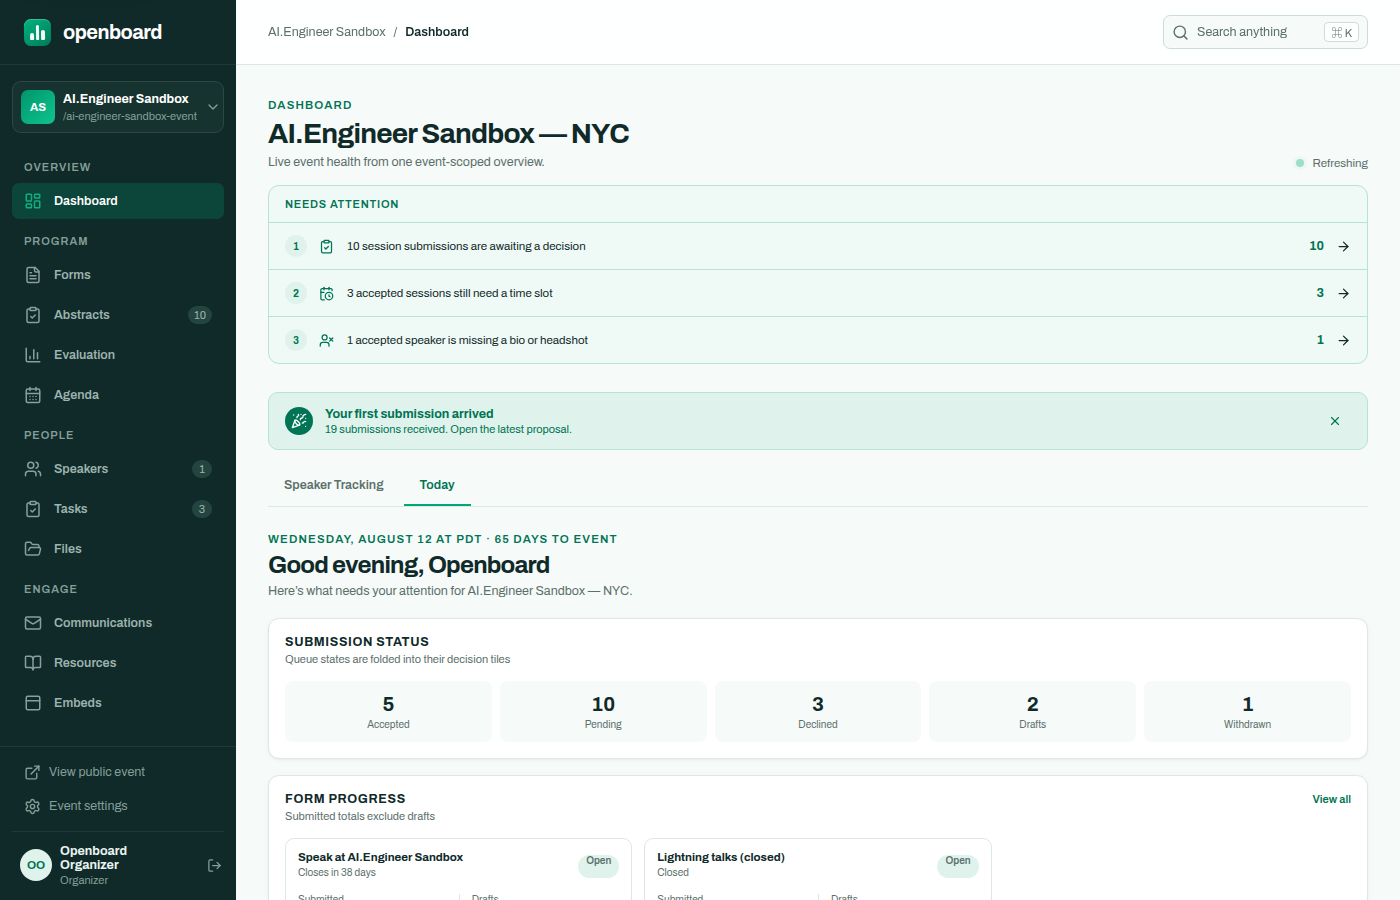
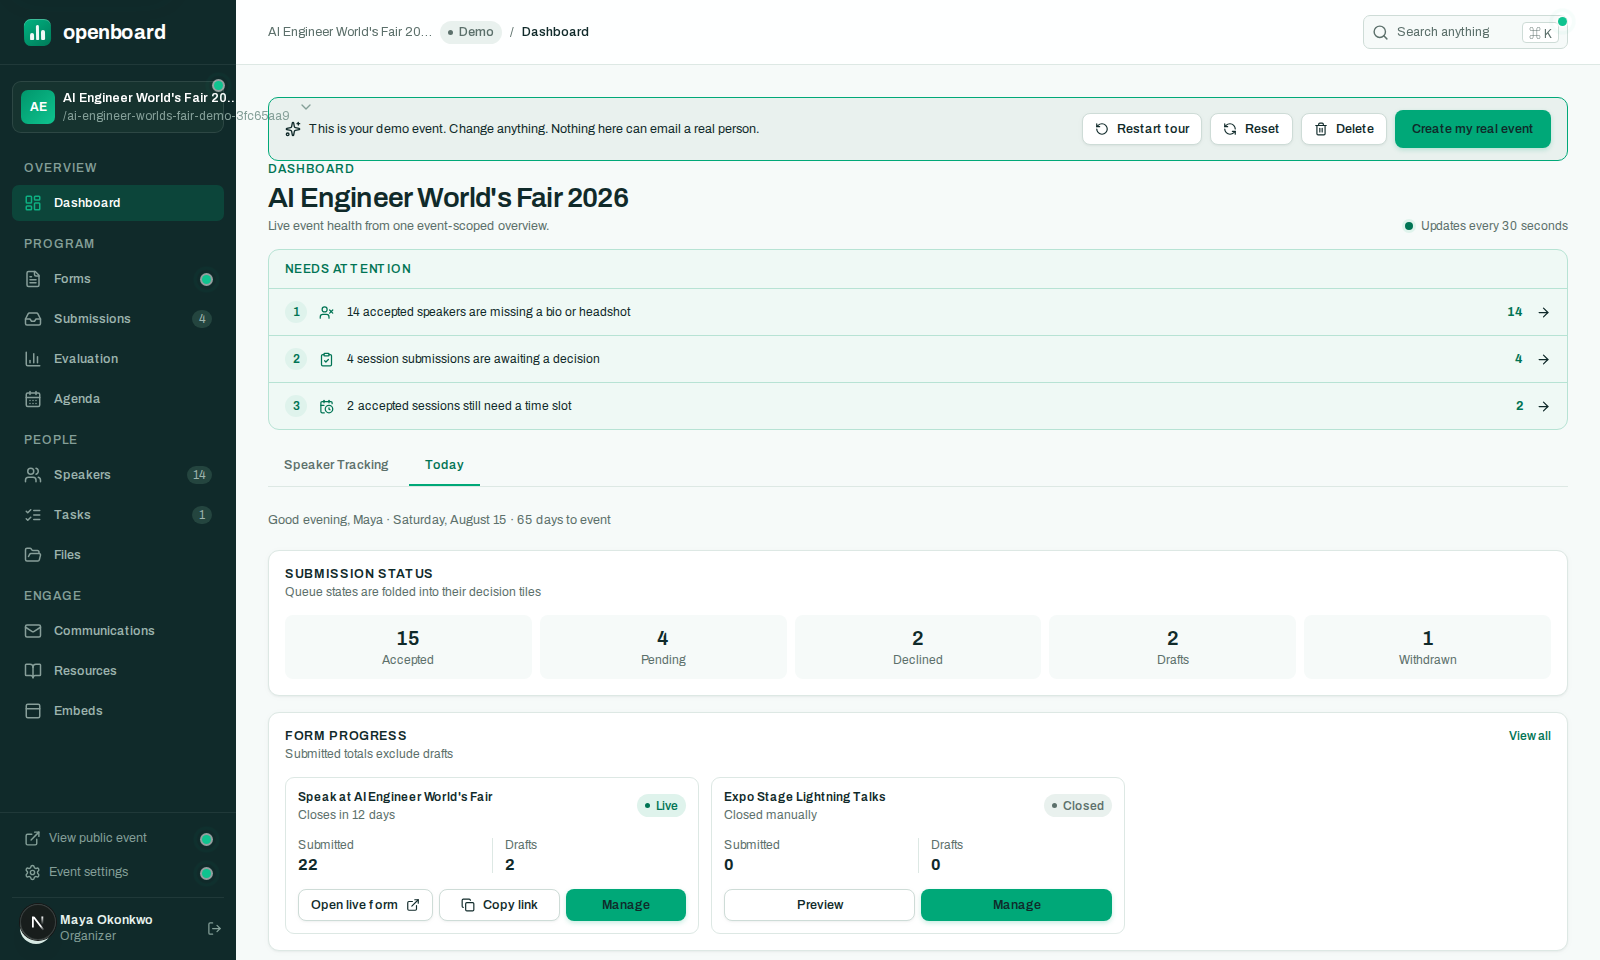
Rewrite the README around the first ten minutes, and reshoot every screenshot
The README described a product that had moved on. First Fair — the demo event
and its guided tour, the one thing built specifically so a new organizer can
understand Openboard without reading anything — was not mentioned at all, and
the left rail's "Submissions" was still called "Abstracts" throughout.

The page now opens on the path a new organizer actually walks: create your
workspace, pick a door, watch a conference get built, take the tour, then set
up the real one — with the four properties of the demo event (labelled, cannot
email anybody, free, disposable) stated where somebody deciding whether to
click is looking. The feature tour follows as "the product, screen by screen".

Every screenshot is new, and shot against the demo conference rather than the
seeded sandbox. The sandbox carries deliberate hostile probes — a 255-character
run-on title, an RTL override, an XSS payload — which is right for the e2e
suite and wrong for the first picture a stranger sees; the old submissions
table screenshot was mostly one title wrapping down the page. Ten screens that
had no picture at all now have one: sign-up, the fork, provisioning, the tour's
coach card, guided setup, the conflicts tab, the delivery log, Ready to
announce, and two public pages.

Three claims were stronger than the code and are now accurate: the eight field
types are the eight the builder actually offers (COMMITTED_FIELD_TYPES, not the
thirteen in FIELD_TYPES); auto-place names what it screens, since
[…]

diff --git a/README.md b/README.md
@@ -4,15 +4,92 @@ Openboard is an open-source platform for running the speaker side of a conferenc
 call for speakers, review the proposals, keep your speakers on track, build a conflict-free
 schedule, and publish it — all from one place, with the routine email handled for you.
 
-This README is a tour for **event organizers**. If you want to hack on Openboard or host it
+This README is written for **event organizers**. If you want to hack on Openboard or host it
 yourself, jump to [For developers and self-hosters](#for-developers-and-self-hosters).
 
-- **Try it now:** <https://sb-web-preview.yi-ding.workers.dev> — a live preview seeded with a
-  sample conference (*AI.Engineer Sandbox — NYC*).
-- **Guided walkthrough:** [`docs/demo-script.md`](docs/demo-script.md) steps through everything
-  below against the seeded event.
+**The fastest way to understand Openboard is to let it build you a conference and walk you
+through running it.** It takes about ten minutes, costs nothing, and cannot email a real
+person. Start at <https://openboard.events> — or read
+[Your first ten minutes](#your-first-ten-minutes) below, which is the same path with pictures.
 
-## Your event at a glance
+---
+
+## Your first ten minutes
+
+### 1. Create your workspace
+
+Sign up with your name, your organization's name, an email address, and a password. Confirm the
+address from the mail we send, and you land in your new organization.
+
+![The Openboard sign-up screen: name, organization, email, password](docs/screenshots/signup.png)
+
+An **organization** is your team's home: it holds every event you run, your co-organizers and
+reviewers, and the speaker relationships you build up over the years.
+
+### 2. Pick a door
+
+A brand-new organization is offered a choice before anything else. Neither door is a trap —
+*Skip both* is right there, and the offer stays on your organization home until you take it.
+
+![Two doors: explore a finished conference, or set up my real event](docs/screenshots/onboarding-fork.png)
+
+### 3. Watch a conference get built
+
+Choose *Explore a finished conference* and Openboard writes you one, live, in ten narrated
+phases: a venue and eight tracks, eighteen speakers who do not exist, a call for speakers,
+twenty-four proposals, a review queue, a schedule with two scheduling conflicts planted in it
+on purpose, speaker tasks, resources, and a full outbox.
+
+![The demo conference being provisioned, phase by phase](docs/screenshots/demo-building.png)
+
+It is a **real event**, not a fixture: it is built through the same code your own event will
+use, so you can rename it, delete things, publish it, and generally break it without
+consequence.
+
+### 4. Take the tour
+
+Then a guided tour — *First Fair* — walks you through actually running it, chapter by chapter:
+the dashboard, building a form, triaging proposals, scoring them, deciding and notifying,
+visiting a speaker's portal, fixing a scheduling conflict, publishing to the public site, and
+the email machinery underneath.
+
+![The guided tour's coach card, pointing at the command palette](docs/screenshots/guided-tour.png)
+
+Each step is verified against what is actually in the database rather than against clicks, so
+finishing one in another tab, on your phone, or by a route nobody scripted all count.
+<kbd>Esc</kbd> pauses with nothing lost; every step can be skipped; the tour can be resumed or
+restarted from the ribbon at the top of the demo event.
+
+**Four things to know about the demo event:**
+
+| | |
+|---|---|
+| **It is labelled.** | A `Demo` badge in the topbar and on the event switcher, and a *"Sample event · built with Openboard"* ribbon on its public pages, which are also `noindex`. |
+| **It cannot email anybody.** | Every fabricated address ends in `.demo.invalid` (a domain that cannot resolve, anywhere), *and* the mail dispatcher refuses demo events outright. Mail the tour queues is rendered, logged — and skipped. |
+| **It is free.** | It never counts toward your organization's event allowance. |
+| **It is disposable.** | *Reset* rebuilds it from scratch; *Delete* (owner only, typed confirmation) removes it and everything under it. Neither can touch a real event. |
+
+### 5. Set up your real event
+
+When you are ready, **Create my real event** opens a four-step guided setup: event details,
+tracks, your first submission form, and the link to share. It takes a few minutes and leaves you
+with a call for speakers you can publish.
+
+![The four-step guided setup for a real event](docs/screenshots/setup-wizard.png)
+
+If you took the tour, tick **Start from my demo's setup** and your real event inherits the
+demo's vocabulary and one form's structure — tracks, rooms, formats, tags, questions,
+conditional rules — and nothing else. No fake people, no fake proposals, no fake sessions.
+
+Already run events here? You are never interrupted by the fork; the demo is available whenever
+you want it, from your organization home or the command palette (<kbd>⌘K</kbd> →
+*Explore a demo event*).
+
+---
+
+## The product, screen by screen
+
+Every screenshot below is the demo conference — the one Openboard will build for you.
 
 Sign in, pick your event, and the dashboard tells you where your attention is needed *today*:
 proposals awaiting a decision, accepted sessions without a time slot, speakers missing a bio or
@@ -20,39 +97,40 @@ headshot. Each line links straight to the screen where you fix it.
 
 ![The event dashboard, with a needs-attention queue and submission status counts](docs/screenshots/dashboard.png)
 
-The left rail is the whole product: **Forms → Abstracts → Evaluation → Agenda** for the program,
-**Speakers → Tasks → Files** for the people, and **Communications → Resources → Embeds** to reach
-your audience.
+The left rail is the whole product: **Forms → Submissions → Evaluation → Agenda** for the
+program, **Speakers → Tasks → Files** for the people, and **Communications → Resources →
+Embeds** to reach your audience.
 
-## 1. Open your call for speakers
+### 1. Open your call for speakers
 
 Create a submission form under **Forms**. The builder walks you through six steps — setup,
-welcome page, the abstract itself, participant details, settings, and notifications — with a live
-preview of what speakers will see as you type. Deadlines and per-speaker submission limits are
-enforced for you.
+welcome page, the abstract, participant details, settings, and notifications — with a live
+preview of what speakers will see as you type. Deadlines and per-speaker submission limits
+are enforced for you.
 
 ![The six-step form builder with live preview](docs/screenshots/form-builder.png)
 
-Questions come in eight field types (short/long text, rich text, dropdowns, multi-selects, and
-more). Two features do a lot of quiet work here:
+Questions come in eight field types (short and long text, rich text, dropdowns, multi-selects,
+email, URL, and file upload). Two features do a lot of quiet work here:
 
 - **Conditional visibility** — a question can appear only when it's relevant ("Workshop
   duration" only when the format is *Workshop*).
-- **Category routing** — rules like *"When Format is Workshop → set Track AI Agents, add tag
-  Tooling"* file each submission into the right bucket the moment it arrives.
+- **Category routing** — rules like *"When Track is Security → add tag Enterprise"* file each
+  submission into the right bucket the moment it arrives.
 
-<img src="docs/screenshots/form-questions-routing.png" alt="The question list with a conditional field, and a category routing rule" width="560">
+![The question list with a conditional field, and a category routing rule](docs/screenshots/form-questions-routing.png)
 
-Every save pins an immutable snapshot of the form, so a proposal is always reviewed against the
-exact form the speaker filled in — even if you tweak the wording later. Once submissions exist,
-the structure locks (labels, guidance, and dates stay editable).
+Every publish pins an immutable snapshot of the form, so a proposal is always reviewed against
+the exact form the speaker filled in — even if you tweak the wording later. Once real
+submissions exist, the structure locks (labels, guidance, and dates stay editable, and
+*Duplicate as draft* gives you a fresh copy to restructure).
 
-When the form is ready, publish it and share the public link — each row in the Forms list has a
-copy-link button.
+When the form is ready, publish it and share the public link — every live form in the Forms list
+has copy-link and open-in-a-new-tab actions.
 
 ![The forms list with submission counts, status, and copy-link actions](docs/screenshots/forms-list.png)
 
-### What speakers see
+#### What speakers see
 
 Speakers get a clean four-step wizard: verify email with a one-time code, fill in the proposal,
 add speaker details, review — then submit. (Three steps if you don't collect speaker details.)
@@ -60,61 +138,58 @@ Drafts save to the server as they go, so nothing is lost to a closed tab, and sp
 back and **edit their proposal until the form closes or you decide** — no "please re-open my
 submission" email threads.
 
+![The public submission wizard, with its close date and per-speaker limit](docs/screenshots/cfp-wizard.png)
+
 A talk is often not one person's. If you turn the roles on, the speaker step takes co-speakers,
 moderators and panelists alongside the submitter, each answering the participant questions in
 their own right; everyone on the proposal can see it in their portal, while editing stays with
 the person who submitted it.
 
-<img src="docs/screenshots/cfp-wizard.png" alt="The public submission wizard, showing the conditional Workshop duration question" width="640">
+### 2. Review proposals and decide
 
-That *Workshop duration* question is the conditional one from the builder above — it appeared
-because this speaker picked *Workshop*.
-
-## 2. Review proposals and decide
-
-**Abstracts** is every proposal for the event with its status, track, and rating in one table.
-Tabs slice it into the queues you actually work: pending, accept queue, decline queue, decided.
+**Submissions** is every proposal for the event with its status, track, and rating in one table.
+Tabs slice it into the queues you actually work: needs decision, ready to notify, decided, all.
 Click any row to work the proposal in a slide-over panel — no page loads, and keyboard next/prev
 lets you clear a queue without touching the mouse. Bulk-select rows to move a batch at once, or
 export the lot to CSV.
 
-![The abstracts table with status queues, tracks, ratings, and a queued-decisions banner](docs/screenshots/abstracts-list.png)
+![The submissions table with decision queues, tracks, ratings, and a queued-decisions banner](docs/screenshots/submissions-list.png)
 
 The panel shows the speaker's answers exactly as submitted, rendered against the form version
 they saw:
 
-<img src="docs/screenshots/submission-drawer.png" alt="The submission panel with answers pinned to the form snapshot" width="480">
+![The submission panel with answers pinned to the form snapshot](docs/screenshots/submission-drawer.png)
 
-### Structured scoring, if you want it
+#### Structured scoring, if you want it
 
-For a lightweight event, decide straight from the Abstracts queues. For a program committee,
+For a lightweight event, decide straight from the Submissions queues. For a program committee,
 **Evaluation** runs scoring rounds: pick the scale and criteria, choose which tracks are in
 scope, assign reviewers (with recusal for conflicts of interest), and optionally make a round
 **blind** — reviewers see the proposal content but not who wrote it. Committee averages stay
-organizer-only by default so reviewers score independently; turn on score sharing for a deliberate
-calibration round. Progress bars show who is falling behind, and reviewer invitations and reminders
-are sent for you. Open any proposal as an organizer to see its attributed score history, including
-the values and rubric labels preserved from before an edit.
+organizer-only by default so reviewers score independently; turn on score sharing for a
+deliberate calibration round. Progress bars show who is falling behind, and reviewer invitations
+and reminders are sent for you. Open any proposal as an organizer to see its attributed score
+history, including the values and rubric labels preserved from before an edit.
 
 ![Two evaluation rounds with reviewer progress, one marked blind review](docs/screenshots/evaluation-rounds.png)
 
-Scores roll up into the rating column in Abstracts, so the decision queue is already sorted by
+Scores roll up into the rating column in Submissions, so the decision queue is already sorted by
 the committee's verdict.
 
-### Telling the speakers
+#### Telling the speakers
 
 Decisions queue rather than send instantly — accept and decline in any order, then hit
-**Notify** once (the banner at the top of Abstracts counts what's queued). Each speaker gets one
-clear email, and the notification is recorded in the delivery log. The proposal drawer also keeps
-an attributed decision timeline, so queue moves, reversals, notification finalization, and speaker
-withdrawals remain explainable later.
+**Notify** once (the banner at the top of Submissions counts what's queued). Each speaker gets
+one clear email, and the notification is recorded in the delivery log. The proposal panel also
+keeps an attributed decision timeline, so queue moves, reversals, notification finalization, and
+speaker withdrawals remain explainable later.
 
-## 3. Keep speakers on track
+### 3. Keep speakers on track
 
 **Speakers** tracks every accepted human: confirmation status, what's missing (bio, headshot),
 and their open tasks — with filter tabs for exactly the chasing lists you need before the
-printed program deadline. Import speakers by CSV for invited talks, or let the CFP populate the
-roster.
+printed program deadline. Import speakers by CSV for invited talks, or let the call for speakers
+populate the roster.
 
 ![The speaker roster with confirmation status, open tasks, and missing-item flags](docs/screenshots/speakers-roster.png)
 
@@ -123,41 +198,48 @@ forget), update their profile, upload a headshot, see their submissions and stat
 complete the **tasks** you assign (sign the speaker agreement, upload slides, confirm AV needs —
 manual, form, or file-upload tasks, with deadlines and automatic reminders).
 
-When a speaker is stuck, open their portal *as them* from the Speakers screen (real
-impersonation, clearly badged) and fix it together on the phone.
+When a speaker is stuck, open their portal *as them* from their panel on the Speakers screen
+(real impersonation, clearly badged) and fix it together on the phone.
 
-## 4. Build the schedule
+### 4. Build the schedule
 
 **Agenda** is where accepted talks become a program. Unscheduled sessions wait in a tray on the
-left; drag one onto the day grid to give it a time and room. Conflicts — same room double-booked,
-same speaker in two places, two sessions of one track overlapping — are computed server-side and
-flagged in red, in the grid, the list, and the Conflicts tab, always in agreement. **Auto-place**
-suggests a conflict-free slot when you don't want to hunt for one.
+left; drag one onto the day grid to give it a time and room. **Auto-place** proposes slots for
+you when you don't want to hunt for one — checked against room and speaker clashes, speaker
+blackouts, and room capacity before it offers them.
 
-![The day grid with an unscheduled tray, auto-place, and two conflicts highlighted in red](docs/screenshots/agenda-day.png)
+![The day grid with an unscheduled tray, auto-place, and conflicts highlighted in red](docs/screenshots/agenda-day.png)
+
+Conflicts — same room double-booked, same speaker in two places, two sessions of one track
+overlapping — are computed on the server and flagged in red, in the grid, the list, and the
+Conflicts tab, always in agreement.
+
+![The conflicts tab, naming both sides of each clash](docs/screenshots/agenda-conflicts.png)
 
 List, week, track, and room views cover the other ways you'll want to look at the same program.
 
-## 5. Publish your event site
+### 5. Publish your event site
 
 Nothing leaks until you publish: the public pages render only published sessions and speakers.
 Your event gets a public site with sessions, a day-by-day agenda, a speaker directory and photo
 gallery, and a personal itinerary where attendees star sessions and export them to their
-calendar (ICS). The hosted site carries the logo, background artwork, and accent color configured
-in Event settings, so the attendee experience stays recognizably yours.
+calendar (ICS). The site carries the logo, background artwork, and accent color configured in
+Event settings, so the attendee experience stays recognizably yours.
+
+![The public agenda for the demo conference](docs/screenshots/public-agenda.png)
+
+![The public sessions list, searchable and filterable by track, format, and room](docs/screenshots/public-sessions.png)
 
 Publishing means what it says: a session needs a time before you can publish it, so you cannot
-mark a talk published and quietly leave it off the schedule everyone reads. Pull a published talk
-back to the unscheduled tray later and it leaves the public pages again — with a cancellation for
-every speaker whose calendar had it.
-
-![The public schedule page for the sample event](docs/screenshots/public-schedule.png)
+mark a talk published and quietly leave it off the schedule everyone reads. Pull a published
+talk back to the unscheduled tray later and it leaves the public pages again — with a
+cancellation for every speaker whose calendar had it.
 
 Already have a conference website? **Embeds** gives you an iframe for each surface — agenda,
 sessions list, itinerary, speakers list, speaker gallery — that you paste into your own site.
 They're live: reschedule a talk in the Agenda and every embed updates.
 
-![The embeds screen with five live embeddable surfaces](docs/screenshots/embeds.png)
+![The embeds screen: five embeddable surfaces, one of them switched on](docs/screenshots/embeds.png)
 
 Once something is public, **Ready to announce** on the Agenda hands you the announcement in one
 place: suggested copy, the link to every public page, an embed snippet, and a personal
@@ -165,10 +247,12 @@ place: suggested copy, the link to every public page, an embed snippet, and a pe
 portal home. The button appears only once there is a published schedule behind it — announcing
 an empty page is worse than announcing nothing.
 
-## 6. Let the email run itself
+![Ready to announce: suggested copy, public links, embed snippet, and per-speaker share cards](docs/screenshots/ready-to-announce.png)
+
+### 6. Let the email run itself
 
 **Communications** owns every routine message: submission received, accepted, declined, task
-assigned and overdue, schedule assigned and changed, portal sign-in, reviewer invited and
+assigned and reminded, schedule assigned and changed, portal sign-in, reviewer invited and
 reminded, and your own bulk announcements — eleven templates you can edit, with live preview and
 merge tags. Schedule-assigned mail carries a calendar invite with Google/Outlook links, schedule
 *changes* send an updated one, and cancelling a talk sends a real cancellation that still
@@ -181,14 +265,22 @@ apart), the full **delivery log**, **suppressions** (bounces and unsubscribes ar
 automatically — every message carries `List-Unsubscribe`), and a **bulk send** for the one-off
 "speaker dinner is Thursday" announcement.
 
+![The delivery log — in a demo event, every send is rendered, logged, and skipped](docs/screenshots/delivery-log.png)
+
+That screenshot is from the demo conference, which is why every row reads **Skipped**: the
+dispatcher refuses demo events. In your real event those rows read *Sent*, with the provider's
+message id beside them.
+
+---
+
 ## Beyond one event
 
 Openboard is multi-tenant: an **organization** holds your team and all its events. Invite
-co-organizers and reviewers with role-based access and an audit log, sign in with email/password
-or Google, and reuse your speaker relationships across years with the org-level **speaker CRM**
-(directory, segments, pipeline, duplicate merge). GDPR tooling — per-contact export, erasure,
-and retention rules — is built in, and there's a [public API](docs/api.md) for whatever we
-didn't think of.
+co-organizers and reviewers with role-based access and an audit log, sign in with email and
+password or with Google, and reuse your speaker relationships across years with the org-level
+**speaker CRM** (directory, segments, pipeline, duplicate merge). GDPR tooling — per-contact
+export, erasure, and retention rules — is built in, and there's a [public API](docs/api.md) for
+whatever we didn't think of.
 
 ## For developers and self-hosters
 
@@ -199,9 +291,11 @@ Drizzle, Resend for email, R2 for files.
   testing, and deploying.
 - [`docs/provisioning.md`](docs/provisioning.md) — standing up Neon/R2/Resend/Cloudflare from
   scratch.
+- [`docs/demo-script.md`](docs/demo-script.md) — the guided tour chapter by chapter, and a
+  manual walkthrough for verifying a build.
 - [`docs/api.md`](docs/api.md) — the public API reference.
-- [`docs/manual-test-plans.md`](docs/manual-test-plans.md) — the thirteen manual plans, the design
-  bar every screen is held to, and the fixed seed data they run against.
+- [`docs/manual-test-plans.md`](docs/manual-test-plans.md) — the manual plans, the design bar
+  every screen is held to, and the fixed seed data they run against.
 - [`DECISIONS.md`](DECISIONS.md) — the standing decisions that govern the codebase.
 
 ## License

diff --git a/docs/design-fix-plan.md b/docs/design-fix-plan.md
@@ -12,6 +12,13 @@ Ordering principle: outright defects first (they are cheap and erode trust faste
 two systemic passes (type scale, semantic color), then per-screen work. Phases are independently
 shippable; each should land as its own PR referencing this document.
 
+> **Note (2026-08-15):** the screenshots this plan cites as evidence were captured in August
+> 2026 against the seeded sandbox event. `docs/screenshots/` has since been recaptured against
+> the First Fair demo conference, and two files were renamed (`abstracts-list.png` →
+> `submissions-list.png`, `public-schedule.png` → `public-agenda.png`). The citations below
+> describe what those images showed when the finding was raised, not what the current files
+> show.
+
 ---
 
 ## Phase 0 — Outright defects (fix before any polish)
